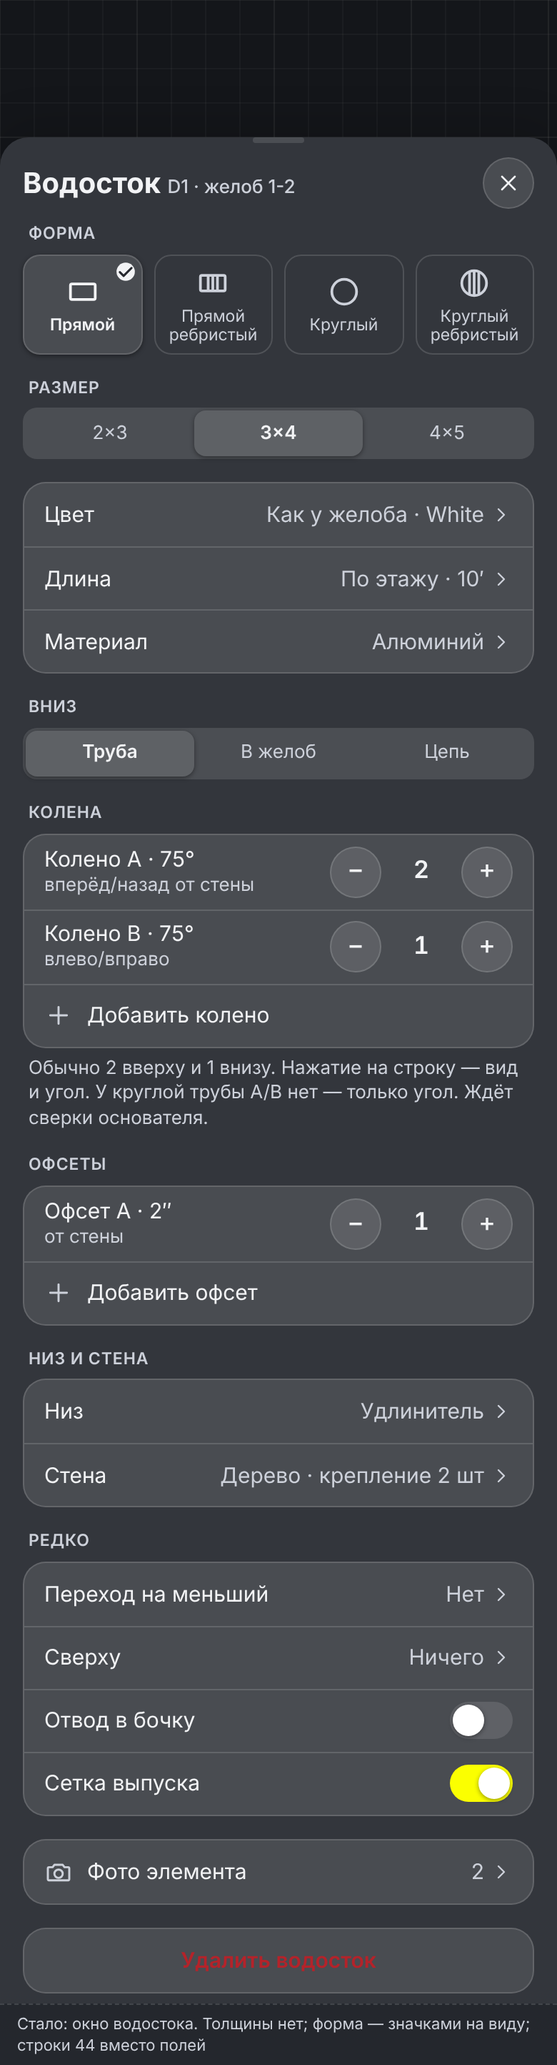
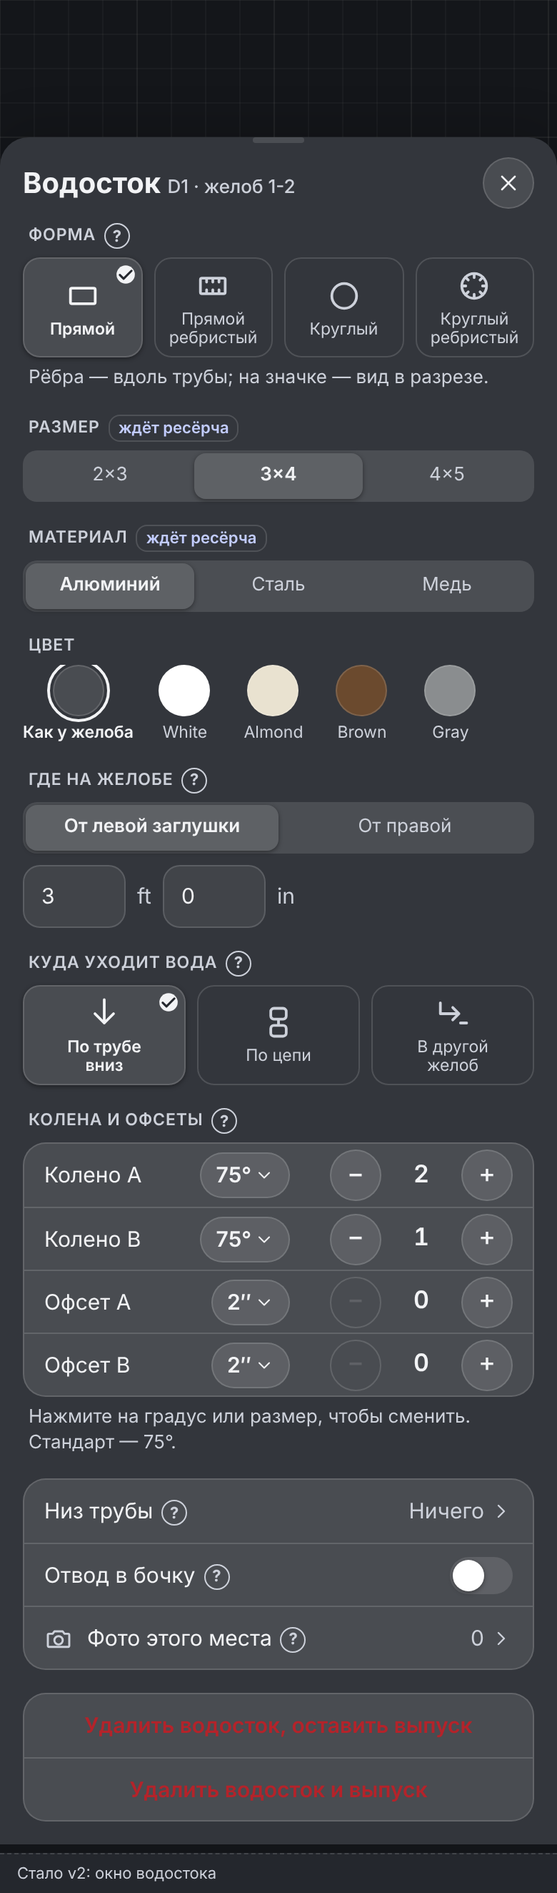
Прототип и спека окон Gutters v2 — по замечаниям основателя 16.11
Claude-Session: https://claude.ai/code/session_015CqH66DzhVPrbpJt18Umgo

diff --git a/docs/prototypes/gutters-windows/index.html b/docs/prototypes/gutters-windows/index.html
@@ -92,19 +92,30 @@ table.cut td{text-align:right;padding:6px 0;border-top:1px solid var(--bd)}
 .tabbar div{display:flex;flex-direction:column;align-items:center;gap:2px}
 .tabbar .on{color:var(--ink);font-weight:600}
 .cap{position:absolute;left:0;right:0;bottom:0;z-index:5;padding:6px 12px;font-size:11px;color:var(--mut);background:var(--bg);border-top:1px dashed var(--bd)}
+.qm{display:inline-flex;width:18px;height:18px;border-radius:9px;border:1.5px solid var(--mut);color:var(--mut);font-size:11px;font-weight:700;align-items:center;justify-content:center;margin-left:6px;vertical-align:middle;flex:none}
+.wait{display:inline-block;font-size:11px;font-weight:600;color:var(--infoT);border:1px solid var(--bd);border-radius:8px;padding:1px 6px;margin-left:6px;vertical-align:middle;text-transform:none;letter-spacing:0}
+.sw{display:flex;gap:10px;overflow:hidden}.sw div{display:flex;flex-direction:column;align-items:center;gap:4px;font-size:11.5px;color:var(--mut);min-width:52px}
+.sw i{width:36px;height:36px;border-radius:18px;border:1px solid var(--bd);display:block;position:relative}.sw .on i{outline:2px solid var(--ink);outline-offset:2px}.sw .on{color:var(--ink);font-weight:600}
+.dd{display:inline-flex;align-items:center;gap:2px;height:32px;padding:0 10px;border-radius:16px;border:1px solid var(--bd);background:var(--surf2);font-weight:600;font-size:15px}
+.menu{position:absolute;background:var(--solid);border:1px solid var(--bd);border-radius:14px;box-shadow:0 8px 24px rgba(0,0,0,.18);width:150px;z-index:4;overflow:hidden}
+.menu div{height:44px;display:flex;align-items:center;padding:0 14px;gap:8px;font-size:15px}.menu div+div{border-top:1px solid var(--bd)}
+.opt{display:flex;align-items:center;gap:10px;min-height:52px;padding:6px 14px}.opt+.opt{border-top:1px solid var(--bd)}.opt .stack{flex:1;display:flex;flex-direction:column}.opt small{font-size:13px;color:var(--mut)}
+.disabled{opacity:.45}
 </style></head>
 <body><div class="scr" id="scr"></div>
 <script>
 const q=new URLSearchParams(location.search),F=q.get('f')||'ds';document.body.dataset.t=q.get('t')||'light';
 const C=getComputedStyle(document.body),k=n=>C.getPropertyValue('--'+n).trim();
 const P={camera:"M4 8h3l1.5-2h7L17 8h3a1 1 0 0 1 1 1v9a1 1 0 0 1-1 1H4a1 1 0 0 1-1-1V9a1 1 0 0 1 1-1zM12 17a3.5 3.5 0 1 0 0-7 3.5 3.5 0 0 0 0 7",plus:"M12 5v14M5 12h14",search:"M11 18a7 7 0 1 0 0-14 7 7 0 0 0 0 14zM20 20l-4-4",cr:"M9 6l6 6-6 6",cl:"M15 6l-6 6 6 6",cd:"M6 9l6 6 6-6",check:"M5 12.5l4.5 4.5L19 7.5",more:"M6 12m-1.2 0a1.2 1.2 0 1 0 2.4 0a1.2 1.2 0 1 0-2.4 0M12 12m-1.2 0a1.2 1.2 0 1 0 2.4 0a1.2 1.2 0 1 0-2.4 0M18 12m-1.2 0a1.2 1.2 0 1 0 2.4 0a1.2 1.2 0 1 0-2.4 0",close:"M6 6l12 12M18 6L6 18",undo:"M9 14L4 9l5-5M4 9h11a5 5 0 0 1 0 10h-3",redo:"M15 14l5-5-5-5M20 9H9a5 5 0 0 0 0 10h3",trash:"M5 7h14M10 7V4h4v3M7 7l1 13h8l1-13",link:"M10 14a4 4 0 0 0 5.7 0l3-3a4 4 0 0 0-5.7-5.7l-1 1M14 10a4 4 0 0 0-5.7 0l-3 3A4 4 0 0 0 10 18.7l1-1",user:"M12 12a4 4 0 1 0 0-8 4 4 0 0 0 0 8zM4 21a8 8 0 0 1 16 0",users:"M16 20v-1.5a3.5 3.5 0 0 0-3.5-3.5h-5A3.5 3.5 0 0 0 4 18.5V20M10 11a3.5 3.5 0 1 0 0-7 3.5 3.5 0 0 0 0 7M20 20v-1.5a3.5 3.5 0 0 0-2.5-3.3M15.5 4.2a3.5 3.5 0 0 1 0 6.6",note:"M8 4h8v3H8zM6 5.5a1 1 0 0 0-1 1V20a1 1 0 0 0 1 1h12a1 1 0 0 0 1-1V6.5a1 1 0 0 0-1-1M9 12h6M9 16h4",home:"M3 11l9-8 9 8M5 10v10h5v-6h4v6h5V10",pencil:"M4 20l1-4L16 5a2 2 0 0 1 3 3L8 19z",
-dsRect:"M5 7h14a1 1 0 0 1 1 1v8a1 1 0 0 1-1 1H5a1 1 0 0 1-1-1V8a1 1 0 0 1 1-1z",dsRectRibbed:"M5 7h14a1 1 0 0 1 1 1v8a1 1 0 0 1-1 1H5a1 1 0 0 1-1-1V8a1 1 0 0 1 1-1zM9 7v10M12 7v10M15 7v10",dsRound:"M12 4a8 8 0 1 0 0 16 8 8 0 0 0 0-16z",dsRoundRibbed:"M12 4a8 8 0 1 0 0 16 8 8 0 0 0 0-16zM9 4.6v14.8M12 4v16M15 4.6v14.8",
+dsRect:"M5 7h14a1 1 0 0 1 1 1v8a1 1 0 0 1-1 1H5a1 1 0 0 1-1-1V8a1 1 0 0 1 1-1z",dsRectRibbed:"M5 7h14a1 1 0 0 1 1 1v8a1 1 0 0 1-1 1H5a1 1 0 0 1-1-1V8a1 1 0 0 1 1-1zM8 7v2.5M12 7v2.5M16 7v2.5M8 17v-2.5M12 17v-2.5M16 17v-2.5",dsRound:"M12 4a8 8 0 1 0 0 16 8 8 0 0 0 0-16z",dsRoundRibbed:"M12 4a8 8 0 1 0 0 16 8 8 0 0 0 0-16zM12 4v2.6M12 20v-2.6M4 12h2.6M20 12h-2.6M6.3 6.3l1.9 1.9M17.7 17.7l-1.9-1.9M17.7 6.3l-1.9 1.9M6.3 17.7l1.9-1.9",
 xsK:"M6 4v13a3 3 0 0 0 3 3h6a3 3 0 0 0 3-3V9.5c0-1.4-1-2.2-2.4-2.2H13",xsHalf:"M4 8a8 8 0 0 0 16 0M3 8h3M18 8h3",xsFascia:"M6 4v13.5a2.5 2.5 0 0 0 2.5 2.5H18V8.5h-3",xsBox:"M5 5v13a1 1 0 0 0 1 1h12a1 1 0 0 0 1-1V5",xsEuro:"M4 8c0 6 3 10 8 10s8-4 8-10",
-cornerOut:"M12 3l9 9-9 9-9-9z",cornerIn:"M12 3l9 9-9 9-9-9zM12 11l1 1-1 1-1-1z"};
+down:"M12 3v15M6 12l6 6 6-6",chain:"M9 3h6a2 2 0 0 1 2 2v3a2 2 0 0 1-2 2H9a2 2 0 0 1-2-2V5a2 2 0 0 1 2-2zM12 10v4M9 14h6a2 2 0 0 1 2 2v3a2 2 0 0 1-2 2H9a2 2 0 0 1-2-2v-3a2 2 0 0 1 2-2z",toGut:"M4 5v7h12M12 8l4 4-4 4M17 18h4",cornerOut:"M12 3l9 9-9 9-9-9z",cornerIn:"M12 3l9 9-9 9-9-9zM12 11l1 1-1 1-1-1z"};
 const ic=(n,s=22,col='currentColor',sw=1.75)=>`<svg class="ic" style="width:${s}px;height:${s}px" viewBox="0 0 24 24"><path d="${P[n]}" fill="none" stroke="${col}" stroke-width="${sw}" stroke-linecap="round" stroke-linejoin="round"/></svg>`;
 const chk=`<svg class="chk" viewBox="0 0 24 24"><circle cx="12" cy="12" r="11" fill="${k('ink')}"/><path d="${P.check}" fill="none" stroke="${k('bg')}" stroke-width="2.6" stroke-linecap="round" stroke-linejoin="round"/></svg>`;
 const tile=(icon,label,on,cls='')=>`<div class="tile ${cls} ${on?'on':''}">${ic(icon,26)}<span>${label}</span>${on?chk:''}</div>`;
 const row=(key,val,opts={})=>`<div class="row ${opts.sub?'sub':''}">${opts.icon?ic(opts.icon,20,k('mut')):''}${opts.sub?`<div class="stack"><span>${key}</span><small>${opts.sub}</small></div>`:`<span class="k">${key}</span>`}${opts.ctrl??`<span class="v">${val}${ic('cr',16)}</span>`}</div>`;
+const qm='<span class="qm">?</span>',wait='<span class="wait">ждёт ресёрча</span>';
+const dd=v=>`<span class="dd">${v}${ic('cd',14)}</span>`;
 const stp=n=>`<span class="stp"><b class="${n?'':'off'}">−</b><i>${n}</i><b>+</b></span>`;
 const seg=(items,on)=>`<div class="seg">${items.map((x,i)=>`<span class="${i===on?'on':''}">${x}</span>`).join('')}</div>`;
 let grid='';for(let x=0;x<390;x+=24)grid+=`<line x1="${x}" y1="0" x2="${x}" y2="844" stroke="${x%96?k('grid'):k('grid2')}"/>`;for(let y=0;y<844;y+=24)grid+=`<line x1="0" y1="${y}" x2="390" y2="${y}" stroke="${y%96?k('grid'):k('grid2')}"/>`;
@@ -117,48 +128,55 @@ const field=`<div class="fld">${ic('dsRect',18)}<b>Водостоков 1</b><sp
 const cap=t=>`<div class="cap">${t}</div>`;
 const sheet=(title,sub,body,foot='')=>`<div class="sheet static"><div class="grab"></div><div class="sh"><h2>${title}${sub?` <span class="sub">${sub}</span>`:''}</h2><span class="b36 round">${ic('close',18)}</span></div><div class="body">${body}</div>${foot}</div>`;
 let H='';
-if(F==='ds'){
+if(F==='ds'||F==='ds-copper'||F==='ds-deg'){
+ const cu=F==='ds-copper';
+ const swatch=(c,n,on)=>`<div class="${on?'on':''}"><i style="background:${c}"></i>${n}</div>`;
+ const elb=(n,v,q)=>row(n,'',{ctrl:`${dd(v)}<span style="width:8px"></span>${stp(q)}`});
  H=sheet('Водосток','D1 · желоб 1-2',`
- <div><div class="lbl">Форма</div><div class="tiles c4">${tile('dsRect','Прямой',true)}${tile('dsRectRibbed','Прямой<br>ребристый')}${tile('dsRound','Круглый')}${tile('dsRoundRibbed','Круглый<br>ребристый')}</div></div>
- <div><div class="lbl">Размер</div>${seg(['2×3','3×4','4×5'],1)}</div>
- <div class="grp">${row('Цвет','Как у желоба · White')}${row('Длина','По этажу · 10′')}${row('Материал','Алюминий')}</div>
- <div><div class="lbl">Вниз</div>${seg(['Труба','В желоб','Цепь'],0)}</div>
- <div><div class="lbl">Колена</div><div class="grp">${row('Колено A · 75°','',{sub:'вперёд/назад от стены',ctrl:stp(2)})}${row('Колено B · 75°','',{sub:'влево/вправо',ctrl:stp(1)})}${row('Добавить колено','',{icon:'plus',ctrl:''})}</div><div class="note">Обычно 2 вверху и 1 внизу. Нажатие на строку — вид и угол. У круглой трубы A/B нет — только угол. Ждёт сверки основателя.</div></div>
- <div><div class="lbl">Офсеты</div><div class="grp">${row('Офсет A · 2″','',{sub:'от стены',ctrl:stp(1)})}${row('Добавить офсет','',{icon:'plus',ctrl:''})}</div></div>
- <div><div class="lbl">Низ и стена</div><div class="grp">${row('Низ','Удлинитель')}${row('Стена','Дерево · крепление 2 шт')}</div></div>
- <div><div class="lbl">Редко</div><div class="grp">${row('Переход на меньший','Нет')}${row('Сверху','Ничего')}${row('Отвод в бочку','',{ctrl:'<span class="tog"></span>'})}${row('Сетка выпуска','',{ctrl:'<span class="tog on"></span>'})}</div></div>
- <div class="grp">${row('Фото элемента','2',{icon:'camera'})}</div>
- <div class="grp"><div class="row del">Удалить водосток</div></div>`)+cap('Стало: окно водостока. Толщины нет; форма — значками на виду; строки 44 вместо полей');
+ <div><div class="lbl">Форма${qm}</div><div class="tiles c4">${tile('dsRect','Прямой',!cu)}${tile('dsRectRibbed','Прямой<br>ребристый')}${tile('dsRound','Круглый',cu)}${tile('dsRoundRibbed','Круглый<br>ребристый')}</div><div class="note">Рёбра — вдоль трубы; на значке — вид в разрезе.</div></div>
+ <div><div class="lbl">Размер${wait}</div>${seg(cu?['3″','4″']:['2×3','3×4','4×5'],1)}</div>
+ <div><div class="lbl">Материал${wait}</div>${seg(['Алюминий','Сталь','Медь'],cu?2:0)}</div>
+ <div class="${cu?'disabled':''}"><div class="lbl">Цвет</div>${cu?`<div class="note" style="margin:0 4px 8px">Медь не красят — цвет не выбирается.</div>`:''}<div class="sw">${swatch(k('surf2'),'Как у желоба',!cu)}${swatch('#FFFFFF','White')}${swatch('#E9E2D0','Almond')}${swatch('#6B4A2E','Brown')}${swatch('#8A8D8F','Gray')}</div></div>
+ <div><div class="lbl">Где на желобе${qm}</div>${seg(['От левой заглушки','От правой'],0)}<div style="display:flex;gap:8px;align-items:center;margin-top:8px"><div class="inp" style="width:72px">3</div><span style="color:var(--mut)">ft</span><div class="inp" style="width:72px">0</div><span style="color:var(--mut)">in</span></div></div>
+ <div><div class="lbl">Куда уходит вода${qm}</div><div class="tiles c3" style="grid-template-columns:repeat(3,1fr)">${tile('down','По трубе<br>вниз',true)}${tile('chain','По цепи')}${tile('toGut','В другой<br>желоб')}</div></div>
+ <div><div class="lbl">Колена и офсеты${qm}</div><div class="grp">${elb('Колено A','75°',2)}${elb('Колено B','75°',1)}${elb('Офсет A','2″',0)}${elb('Офсет B','2″',0)}</div><div class="note">Нажмите на градус или размер, чтобы сменить. Стандарт — 75°.</div></div>
+ <div class="grp">${row('Низ трубы'+qm,'Ничего')}${row('Отвод в бочку'+qm,'',{ctrl:'<span class="tog"></span>'})}${row('Фото этого места'+qm,'0',{icon:'camera'})}</div>
+ <div class="grp"><div class="row del">Удалить водосток, оставить выпуск</div><div class="row del">Удалить водосток и выпуск</div></div>`)+(F==='ds-deg'?`<div class="menu" style="left:140px;top:842px"><div>30°</div><div>45°</div><div>60°</div><div style="font-weight:600">75° ${ic('check',16)}</div><div>90°</div></div>`:'')+cap(cu?'Стало v2: медь — цвет выключен сам':F==='ds-deg'?'Стало v2: градус колена — выбор по нажатию на «75°»':'Стало v2: окно водостока');
 }
-if(F==='elbow'){
- H=`<div class="sheet static"><div class="grab"></div><div class="sh"><span class="b36 round">${ic('cl',18)}</span><h2>Колено</h2><span class="b36 round">${ic('close',18)}</span></div><div class="body">
- <div><div class="lbl">Вид</div><div class="tiles c2">${tile('dsRect','A — вперёд/назад<br>от стены',true)}${tile('dsRect','B — влево/вправо')}</div></div>
- <div><div class="lbl">Угол</div>${seg(['30°','45°','60°','75°','90°'],3)}<div class="note">Стандарт — 75°.</div></div>
- <div class="grp">${row('Сколько','',{ctrl:stp(2)})}</div>
- <div><div class="lbl">Офсет (готовый)</div>${seg(['Нет','Double A','Double B','Single'],0)}<div class="grp" style="margin-top:8px">${row('Смещение','2″')}</div><div class="note">Смещение 1½–6″. У Amerimax офсет собирают из двух колен с отрезком. Ждёт сверки основателя.</div></div>
- </div><div class="foot"><span class="btnw acc">Готово</span></div></div>`+cap('Стало: страница «Колено» внутри окна водостока: вид A/B, угол, сколько; офсет');
+if(F==='ds-bottom'){
+ const o=(t,d,on)=>`<div class="opt"><div class="stack"><span>${t}</span><small>${d}</small></div>${on?ic('check',20):''}</div>`;
+ H=`<div class="sheet static"><div class="grab"></div><div class="sh"><span class="b36 round">${ic('cl',18)}</span><h2>Низ трубы</h2><span class="b36 round">${ic('close',18)}</span></div><div class="body"><div class="note" style="margin:0">Что ставим у земли, куда выходит вода из трубы.</div><div class="grp">${o('Ничего','труба заканчивается коленом',true)}${o('Удлинитель','кусок трубы, отводит воду от стены')}${o('Splash block','бетонный или пластиковый лоток под коленом')}${o('Гибкий рукав','гофрированный, складывается')}${o('В землю','переходник в дренажную трубу')}${o('На нижнюю крышу','вода стекает на крышу ниже')}</div></div></div>`+cap('Стало v2: «Низ трубы» — список с пояснениями, по умолчанию «Ничего»');
 }
 if(F==='run'){
  H=sheet('Желоб','1-1 · 21′ 8″',`
- <div><div class="lbl">Профиль</div><div class="tiles c5">${tile('xsK','K',true)}${tile('xsHalf','Полукр.')}${tile('xsFascia','Fascia')}${tile('xsBox','Box')}${tile('xsEuro','Euro')}</div></div>
+ <div><div class="lbl">Профиль${wait}</div><div class="tiles c5">${tile('xsK','K',true)}${tile('xsHalf','Полукр.')}${tile('xsFascia','Fascia')}${tile('xsBox','Box')}${tile('xsEuro','Euro')}</div><div class="note">Значки нарисуем по сечениям после ресёрча.</div></div>
  <div><div class="lbl">Размер</div>${seg(['5″','6″','7″'],0)}</div>
  <div><div class="lbl">Этаж</div>${seg(['1','2','3','4'],0)}</div>
- <div><div class="lbl">Длина</div><div style="display:flex;gap:8px;align-items:center"><div class="inp" style="width:84px">21</div><span style="color:var(--mut)">ft</span><div class="inp" style="width:84px">8</div><span style="color:var(--mut)">in</span><span class="sp"></span><span class="b36">Рулетка</span></div><div class="note">Нарисовано 21′ 4″</div></div>
- <div class="grp">${row('Цвет','White')}${row('Материал','Алюминий · .027')}</div>
- <div><div class="lbl">Крепление</div><div class="grp">${row('Монтаж','На фасад')}${row('Кронштейны','Hidden hanger')}</div></div>
- <div class="grp">${row('Фото элемента','0',{icon:'camera'})}</div>
- <div class="grp"><div class="row del">Удалить желоб</div></div>`)+cap('Стало: окно желоба. Профиль значками; размер и этаж — сегменты; углы — в окне угла');
+ <div><div class="lbl">Длина${qm}</div><div style="display:flex;gap:8px;align-items:center"><div class="inp" style="width:64px">21</div><span style="color:var(--mut)">ft</span><div class="inp" style="width:56px">8</div><span style="color:var(--mut)">in</span>${dd('½')}<span class="sp"></span><span class="b36">Шкала</span></div><div class="note">Нарисовано 21′ 4″. «Шкала» — прокрутите длину пальцем.</div></div>
+ <div class="grp">${row('Цвет','White')}${row('Материал'+wait,'Алюминий · .027')}</div>
+ <div><div class="lbl">Крепление</div><div class="grp">${row('К чему крепится'+qm,'Доска (fascia)')}${row('Кронштейны','Hidden hanger')}</div></div>
+ <div class="grp">${row('Фото этого места'+qm,'0',{icon:'camera'})}</div>
+ <div class="grp"><div class="row del">Удалить желоб</div></div>`)+cap('Стало v2: окно желоба. Дробь у длины; «Шкала» вместо «Рулетка»; «К чему крепится» с «?»');
 }
-if(F==='corner'){
+if(F==='corner'||F==='corner-in'){
+ const inner=F==='corner-in';
  const sk=`<svg viewBox="0 0 300 200" style="width:100%;height:170px"><rect x="40" y="40" width="190" height="22" fill="${k('surf2')}"/><rect x="208" y="40" width="22" height="150" fill="${k('surf2')}"/><path d="M40 62H208V190" fill="none" stroke="${k('ink')}" stroke-width="3"/><path d="M40 40H230V190" fill="none" stroke="${k('ink')}" stroke-width="2" stroke-dasharray="5 4"/><path d="M208 62L230 40" stroke="${k('ink')}" stroke-width="2.5"/><path d="M190 62A18 18 0 0 0 208 80" fill="none" stroke="${k('mut')}" stroke-width="1.5" stroke-dasharray="6 3 1 3"/><text x="180" y="96" font-size="12" font-weight="600" fill="${k('ink')}">90°</text><text x="120" y="30" font-size="12" fill="${k('ink')}" text-anchor="middle">лицевая 24′ 4″</text><text x="120" y="80" font-size="12" fill="${k('mut')}" text-anchor="middle">стена 23′ 11″</text></svg>`;
  const cut=(n,w,f)=>`<div class="grp" style="padding:10px 14px"><div style="font-weight:600;font-size:13px">Желоб ${n}</div><table class="cut"><tr><th>По стене</th><th>По лицу</th><th>Рез</th></tr><tr><td style="text-align:left">${w}</td><td><b>${f}</b></td><td>45°</td></tr></table></div>`;
+ const segI=(on)=>`<div class="seg">${[['cornerOut','Наружный'],['cornerIn','Внутренний']].map(([i,t],j)=>`<span class="${j===on?'on':''}" style="gap:6px">${ic(i,16)}${t}</span>`).join('')}</div>`;
  H=sheet('Угол','1-1 / 1-2',`
- <div><div class="tiles c2">${tile('cornerOut','наружный',true,'h36')}${tile('cornerIn','внутренний',false,'h36')}</div><div class="note">Сменится сторона всей линии</div></div>
+ <div>${segI(inner?1:0)}<div class="note">Сменится сторона всей линии</div></div>
  ${sk}
- <div><div class="lbl">Как делаем угол</div>${seg(['Готовый','Резать','Полоса'],1)}<div class="note">Было в окне желоба («Углы этого желоба») — теперь здесь.</div></div>
- <div><div class="lbl">Раскрой · угол 90°</div><div style="display:flex;flex-direction:column;gap:8px">${cut('1-1','23′ 11″','24′ 4″')}${cut('1-2','25′ 11″','26′ 4″')}</div><div class="note" style="color:var(--warnT)">⚠ Замер примерный: перед резкой перемерьте рулеткой</div></div>
- <div class="grp">${row('Брызговик на угол','',{ctrl:'<span class="tog on"></span>'})}${row('Угол по замеру','A, B, C',{})}</div>
- <div class="grp"><div class="row del">Разъединить угол</div></div>`)+cap('Стало: окно угла — всё из DS §19б остаётся; добавлен способ угла; «Угол по замеру» — строкой ›');
+ <div><div class="lbl">Как делаем угол${qm}</div>${seg(['Готовый','Резать','Полоса'],1)}</div>
+ <div><div class="lbl">Раскрой · угол 90°</div><div style="display:flex;flex-direction:column;gap:8px">${cut('1-1','23′ 11″','24′ 4″')}${cut('1-2','25′ 11″','26′ 4″')}</div></div>
+ <div class="grp">${inner?row('Брызговик на угол'+qm,'',{ctrl:'<span class="tog on"></span>'}):''}${row('Угол не 90°? Измерить'+qm,'',{icon:'pencil'})}</div>
+ <div class="grp"><div class="row del">Разъединить угол</div></div>`)+cap(inner?'Стало v2: внутренний угол — есть брызговик':'Стало v2: наружный угол — брызговика нет; вид — сегментом DS; «замер примерный» убран');
+}
+if(F==='corner-tri'){
+ const fig=`<svg viewBox="0 0 320 230" style="width:100%;height:220px"><path d="M40 40H280M40 40V210" stroke="${k('ink')}" stroke-width="4" stroke-linecap="round"/><text x="30" y="30" font-size="12" fill="${k('mut')}" text-anchor="end">угол</text><circle cx="40" cy="40" r="5" fill="${k('ink')}"/><circle cx="200" cy="40" r="6" fill="${k('bg')}" stroke="${k('ink')}" stroke-width="2.5"/><circle cx="40" cy="170" r="6" fill="${k('bg')}" stroke="${k('ink')}" stroke-width="2.5"/><path d="M200 40L40 170" stroke="${k('ink')}" stroke-width="2" stroke-dasharray="6 4"/><text x="120" y="62" font-size="15" font-weight="700" fill="${k('ink')}">A</text><text x="52" y="110" font-size="15" font-weight="700" fill="${k('ink')}">B</text><text x="130" y="122" font-size="15" font-weight="700" fill="${k('ink')}">C</text><text x="140" y="26" font-size="12" fill="${k('mut')}" text-anchor="middle">по одной стене</text><text x="52" y="200" font-size="12" fill="${k('mut')}">по другой</text><text x="150" y="150" font-size="12" fill="${k('mut')}">между метками</text></svg>`;
+ const f3=(n,v='5',w='0')=>`<div style="display:flex;gap:8px;align-items:center"><b style="width:18px">${n}</b><div class="inp" style="width:64px">${v}</div><span style="color:var(--mut)">ft</span><div class="inp" style="width:56px">${w}</div><span style="color:var(--mut)">in</span></div>`;
+ H=`<div class="sheet static"><div class="grab"></div><div class="sh"><span class="b36 round">${ic('cl',18)}</span><h2>Измерить угол</h2><span class="b36 round">${ic('close',18)}</span></div><div class="body">
+ <div class="note" style="margin:0">Отмерьте от угла по одной стене (A) и по другой (B), поставьте метки и измерьте расстояние между ними (C). Угол посчитаем сами.</div>${fig}
+ <div style="display:flex;flex-direction:column;gap:8px">${f3('A')}${f3('B')}${f3('C','7','1')}</div></div><div class="foot"><span class="btnw acc">Посчитать угол</span></div></div>`+cap('Стало v2: «Угол по замеру» — со схемой A, B, C');
 }
 if(F==='canvas'){
  const tb=`<div class="tb2"><span style="color:var(--mut)">⋮⋮</span><div class="c on">${ic('xsK')}</div><div class="c">${ic('dsRect')}</div><div class="c" style="width:auto"><span style="font-size:13px;font-weight:700;border:2px solid ${k('s1')};border-radius:14px;padding:4px 8px">Эт 1</span></div><div class="c">${ic('undo')}</div><div class="c">${ic('redo')}</div><div class="c">${ic('trash')}</div></div><div class="fld" style="bottom:44px"><b>Желоб · 25′ 11″</b></div>`;
@@ -178,13 +196,14 @@ if(F==='tab'){
  const card=(icon,t,date,chip,line)=>`<div class="card"><div class="lc"><span class="av">${ic(icon,20)}</span><div style="flex:1;display:flex;flex-direction:column;gap:6px"><div class="t"><span>${t}</span><span class="m">${date}</span></div>${chip}<div class="m">${line}</div></div></div></div>`;
  const ch=(col,i,txt)=>`<span><span class="chip" style="color:${col}">${i} ${txt}</span></span>`;
  H=`<div class="scr" style="background:linear-gradient(160deg,rgba(124,224,138,.25),var(--bg) 35%,var(--bg) 70%,rgba(255,160,60,.18))"><div class="top"><div class="crumb">GoRix v1.0.0 · 1736 · вс, 15 нояб. 5:14 PM</div>
- <div class="ttl"><h1>Gutters</h1><span class="q">?</span><span class="sp"></span><span class="b36">${ic('plus',18)}Замер</span></div>
- <div class="inp">${ic('search',18,k('mut'))}<span class="ph2">Поиск: имя, адрес, название</span></div>
+ <div class="ttl"><h1>Gutters</h1><span class="q">?</span></div>
+ <div style="display:flex;gap:8px"><div class="inp" style="flex:1">${ic('search',18,k('mut'))}<span class="ph2">Поиск</span></div><span class="b36 acc" style="height:44px;border-radius:22px">${ic('plus',18)}Новый замер</span></div>
+ <div style="display:flex;gap:8px;margin-top:10px;overflow:hidden">${['Все · 4','Черновики · 2','Без сметы · 1','Смета · 1','Подписана'].map((x,i)=>`<span class="chip" style="height:32px;padding:0 12px;font-size:13px;white-space:nowrap;flex:none;${i===0?'background:var(--surf2);box-shadow:var(--sh);color:var(--ink)':'color:var(--mut)'}">${x}</span>`).join('')}</div>
  <div class="secH"><b>Черновики</b><span>2</span></div>
  <div style="display:flex;flex-direction:column;gap:8px">${card('pencil','Дом на Maple, задний двор','вчера',ch(k('mut'),'▢','Черновик'),'Желобов: 3 · 62 ft · водостоков: 2')}${card('pencil','Без названия','15 нояб.',ch(k('mut'),'▢','Черновик'),'Желобов: 2 · 50 ft · водостоков: 3')}</div>
  <div class="secH"><b>Привязанные к клиентам и лидам</b><span>2</span></div>
  <div style="display:flex;flex-direction:column;gap:8px">${card('user','Лид · Maria Lopez','14 нояб.',ch(k('warnT'),'⚠','Без сметы'),'412 Oak St · желобов: 4 · 96 ft')}${card('users','Клиент · John Carter','12 нояб.',ch(k('infoT'),'◷','Смета отправлена'),'88 Pine Ave · желобов: 2 · 40 ft')}</div></div>
- <div class="tabbar" style="left:16px;right:16px;bottom:44px;border-radius:24px;height:60px;border:1px solid var(--bd)"><div>${ic('home')}Главная</div><div>${ic('note')}План</div><div>${ic('users')}Чаты</div><div>${ic('users')}Клиенты</div><div class="on">${ic('note')}Gutters</div><div>${ic('more')}Ещё</div></div>${cap('Стало: «?» у заголовка; черновики и привязанные — двумя секциями; у каждой карточки значок и слово «Лид / Клиент»')}</div>`;
+ <div class="tabbar" style="left:16px;right:16px;bottom:44px;border-radius:24px;height:60px;border:1px solid var(--bd)"><div>${ic('home')}Главная</div><div>${ic('note')}План</div><div>${ic('users')}Чаты</div><div>${ic('users')}Клиенты</div><div class="on">${ic('note')}Gutters</div><div>${ic('more')}Ещё</div></div>${cap('Стало v2: сверху поиск, жёлтая «＋ Новый замер», фильтры; ниже — черновики и привязанные')}</div>`;
 }
 document.getElementById('scr').outerHTML=F==='canvas'||F==='tab'?H:`<div class="scr">${canvas()}<div class="scrim"></div>${H}</div>`;
 const sh=document.querySelector('.sheet.static');if(sh&&sh.offsetHeight+130<844){sh.style.position='absolute';sh.style.left='0';sh.style.right='0';sh.style.bottom='34px';sh.style.margin='0';}

diff --git a/docs/specs/33-gutters-windows.md b/docs/specs/33-gutters-windows.md
@@ -41,25 +41,44 @@
 - Выбранная плитка — «Заливка» + `check` (DS «Выделение выбранного», #1306); значки — те же, что у инструментов и знаков на холсте (`dsRect`, `dsRectRibbed`, `dsRound`, `dsRoundRibbed`; `xsK`, `xsHalf`, `xsFascia`, `xsBox`, `xsEuro`; `cornerOut`, `cornerIn`).
 - Свёрнутого блока «Ещё» нет. Редкое (переход, сверху, отвод в бочку, сетка выпуска) — группой «Редко», видно сразу. У каждой группы — подпись.
 - Счётчики — общий `Stepper` (А6: «−» 36, значение 56, «+» 36; «−» тусклый на нуле).
+- **«?» у каждого неочевидного поля** (основатель: «знаки вопроса я просил везде расставлять… с пояснениями»): по нажатию — подсказка DS Б7 одной-двумя фразами; тексты — в i18n блоком `mod.gutters.help.*`.
 - 820/1280: то же содержимое в боковой панели (как сейчас `attr-panel`).
 
-### 3.2. Водосток (`after-ds-390-*`) — #1750
-Форма (4 плитки) · Размер (сегмент по форме: прямоуг. 2×3 / 3×4 / 4×5, круглый 3″ / 4″) · группа: Цвет, Длина, Материал · Вниз (сегмент Труба / В желоб / Цепь — спека 33-ds-auto §9.3) · **Колена**, **Офсеты** (3.8) · группа: Низ, Стена (с креплением) · группа редкого. **Толщины нет** (основатель: «толщину даунспота убери»): у водостока толщина берётся из материала по умолчанию компании; в смете/заказе — как сейчас (поле `gauge` в данных остаётся, правило 16; окно его не показывает).
+### 3.2. Водосток (`after-ds-390-*`, `after-ds-copper`, `after-ds-deg`, `after-ds-bottom`) — #1750
+**Версия 2 — по замечаниям основателя 16.11 ~02:40** (передал руководитель №13). Сверху вниз:
+1. **Форма** (4 плитки, «?»). Значки ребристых — **рёбра внутри** (вид трубы в разрезе), не снаружи: новые `dsRectRibbed`, `dsRoundRibbed` (правка значков — в PR дизайн-системы, они же на холсте и в панели).
+2. **Размер** — сегмент по форме (прямоуг. 2×3 / 3×4 / 4×5; круглый 3″ / 4″). **Ждёт ресёрча** (бывают ли больше 4×5, квадратные, под заказ).
+3. **Материал** — сегмент Алюминий / Сталь / Медь. **Ждёт ресёрча** (полный список). **Медь → цвет выключается сам** (медь не красят; поле цвета тускнеет с пояснением, `finish: mill`), как сейчас `MILL_ONLY` в коде.
+4. **Цвет — палитра:** кружок-образец + название под ним («Как у желоба» первым, затем цвета компании); выбранный — рамка `ink` вокруг кружка + жирное название (DS: правило для выбора цвета — дописать, ближайшее — А15).
+5. **Где на желобе** (новое, «?»): сегмент «От левой заглушки / От правой» + число ft / in. Данные: место уже хранится (`atIn` от начала желоба); сторона и отступ — пересчёт в интерфейсе, не новое поле.
+6. **Куда уходит вода** («?», вместо «Вниз: Труба / В желоб / Цепь»): три плитки со значками и словами — «По трубе вниз», «По цепи», «В другой желоб». Цепь — на виду (основатель: «в списке нет цепи»). Пояснение по «?»: «Труба — обычный водосток; цепь — вода стекает по цепи вместо трубы; в другой желоб — выпуск без трубы, вода переливается в желоб ниже».
+7. **Колена и офсеты** («?»): **всегда четыре строки** — Колено A, Колено B, Офсет A, Офсет B; у каждой справа количество (`Stepper`). У колен — градус кнопкой «75° ⌄» (по нажатию меню 30 / 45 / 60 / **75** / 90; 75 — стандарт). У офсетов — смещение «2″ ⌄» (1, 2, 3, 4, 5, 6″). **Без** подписей «вперёд/назад от стены», без «Добавить колено/офсет» и без отдельного экрана колена (основатель: «других не бывает»). У круглой трубы A/B нет (ресёрч) — строки «Колено» и «Офсет» с градусом/смещением (**ждёт сверки основателя**).
+8. **Низ трубы** («?»): строка «Низ трубы · Ничего ›» → страница со списком и пояснением к каждому: Ничего (по умолчанию), Удлинитель, Splash block, Гибкий рукав, В землю, На нижнюю крышу.
+9. **Отвод в бочку** («?») — переключатель. **Фото этого места** («?»: «снимок места водостока — приложится к замеру, видно бригаде»).
+10. **Удаление — два действия** последними строками: «Удалить водосток, оставить выпуск» (элемент → `pipe:false`, спека 33-ds-auto §9.3) и «Удалить водосток и выпуск»; оба с тостом «Отменить».
+**Убрано из окна:** толщина (берётся из позиции каталога / настроек, по умолчанию .019, у 4×5 — .024), **Стена** (основатель: «в смете просто количество креплений»; **ждёт ресёрча**), «Переход на меньший», «Сверху», «Сетка выпуска» (основатель: непонятно). Данные этих полей остаются (правило 16), движок считает как раньше; вернуть в окно — только по ресёрчу и с «?».
 
 ### 3.3. Желоб (`after-run-390-*`) — #1750
-Профиль (5 плиток, короткие подписи: K, Полукр., Fascia, Box, Euro) · Размер (сегмент по профилю) · Этаж (сегмент 1–4) · **Длина на виду** — поля фут/дюйм и кнопка «Рулетка» (рулетка `Tape.tsx` как сейчас; самое частое действие замера — не прятать в строку) · группа: Цвет, Материал · толщина (у желоба остаётся — основатель убрал только у водостока) · группа «Крепление»: Монтаж, Кронштейны. **Углы из окна желоба убраны** — они в окне угла (одно место).
+Профиль (5 плиток; **значки — ждут ресёрча**: нарисовать по настоящим сечениям) · Размер (сегмент) · Этаж (сегмент 1–4) · **Длина на виду**: ft, in и **дробь** («½ ⌄»: 0, ⅛, ¼, ⅜, ½, ⅝, ¾, ⅞ — как `FracPicker`), рядом кнопка **«Шкала»** вместо непонятного «Рулетка» (прокрутить длину пальцем; «?» объясняет) · группа: Цвет, Материал (**материал и толщины — ждут ресёрча**) · группа «Крепление»: **«К чему крепится»** («?»; вместо «Монтаж на фасад» / «Край крыши»: доска fascia, стропила, обрешётка, карниз ogee, под углом, черепица), Кронштейны · Фото этого места («?») · «Удалить желоб». **Углы из окна желоба убраны** — они в окне угла.
 
-### 3.4. Угол (`after-corner-390-*`) — #1750
-**Всё из DS §19б остаётся** (вид угла — два выбора 36 со значком и словом, «Сменится сторона всей линии», чертёж угла, «Раскрой» карточками по кускам, «замер примерный»). Добавлено: **Как делаем** (сегмент Готовый / Резать / Полоса — перенесено из окна желоба), Брызговик строкой, «Угол по замеру» (A, B, C → угол) — строкой «›» со страницей вместо длинного блока внизу, «Разъединить угол» — последней строкой.
+### 3.4. Угол (`after-corner-390-*`, `after-corner-in-390-*`, `after-corner-tri-390-*`) — #1750
+- **Вид угла — сегментом DS** (А1, `Segmented` со значком и словом «Наружный / Внутренний»), а не своими плитками (основатель: «выглядят кастомными»). «Сменится сторона всей линии» — под ним.
+- Чертёж угла и «Раскрой» по кускам — как сейчас (DS §19б).
+- **Убрано:** «Замер примерный: перед резкой перемерьте рулеткой» и всё про «рулеткой / по спутнику» (основатель: «вообще ничего не пишем»). В коде — отдельная задача (её заводит руководитель).
+- **Как делаем угол** («?») — сегмент Готовый / Резать / Полоса (перенесено из окна желоба).
+- **Брызговик — только у внутреннего угла** (у наружного строки нет).
+- **«Угол не 90°? Измерить»** («?») → страница **«Измерить угол» со схемой**: от угла по одной стене метка (A), по другой (B), расстояние между метками (C); три поля ft/in, «Посчитать угол». Вместо непонятного «Угол по замеру: A, B, C».
+- «Разъединить угол» — последней строкой.
 
 ### 3.5. Шапка холста (`after-canvas-390-*`, было — `before/before-canvas.png`) — #1752
 Панель инструментов и плашка-сводка — **как сейчас** (DS §19а: только значки, выбранный — круг `ink`). Все элементы шапки — **одной высоты 36 и одной формы** (`IconButton`/кнопка-пилюля на `surf2` с `hairline`): «‹», кнопка-имя («Привязать» / имя лида / адрес), фотоаппарат (`IconButton` со значком `camera`, число фото — меткой на кнопке, как счётчик), «⋯», «Готово». «Готово» — та же высота 36, единственная жёлтая (`acc`, правило 2), справа. Сейчас: фотоаппарат — голый значок без подложки, «Готово» — `size="sm"` ниже соседей.
 
-### 3.6. «Привязать» (`after-link-390-*`, `after-draft-390-*`) — #1751
+### 3.6. «Привязать» (`after-link-390-*`, `after-draft-390-*`) — #1751 — **основатель: ок (16.11)**
 Сегмент из трёх: **Лиды · Клиенты · Черновик**. Лиды и клиенты — поиск, строки выбора с `check` у выбранной; кнопка «Привязать к <имя>» выключена, пока строка не выбрана; «Новый лид» — отдельной группой. **Черновик** — поле «Название черновика» (1–120 символов; пусто → «Без названия») и главная кнопка «Сохранить черновик». Название пишется в `gutter_measurements.label` — колонка, проверка длины и чтение/запись уже есть (`data.ts`), **миграции нет**. Название видно в шапке холста вместо «Привязать» и в списке «Черновики». Привязанный замер название сохраняет (видно мелко под именем клиента/лида). Офлайн — через очередь, как остальные поля замера.
 
 ### 3.7. Вкладка Gutters (`after-tab-390-*`) — #1753
-Заголовок **«Gutters»** (решение основателя 16.11; было «Замеры» + подзаголовок «Водостоки (Gutters)»; подзаголовок убирается, вкладка внизу — тоже «Gutters») и **«?» сразу справа от заголовка** (основатель), «＋ Замер» справа в шапке. Поиск. Две секции: **«Черновики»** (замеры без лида и клиента: название или «Без названия», что нарисовано, дата) и **«Привязанные к клиентам и лидам»** (у каждой карточки значок и слово «Лид · имя» / «Клиент · имя», адрес, что нарисовано, статус значком+словом: «⚠ Без сметы», «◷ Смета отправлена», «✓ Подписана»). Строка версии, плашка «Демо» и нижняя панель — как сейчас; пустое состояние — как сейчас («Замеров пока нет» + «＋ Новый замер»). Фильтр-чипы убираются (секции заменяют «Черновики»/«Остальные»; статус виден на карточке). Карточки — `ListCard` (правило 12).
+Заголовок **«Gutters»** (решение основателя 16.11; было «Замеры» + подзаголовок «Водостоки (Gutters)»; подзаголовок убирается, вкладка внизу — тоже «Gutters») и **«?» сразу справа от заголовка**. **Сверху (v2, основатель):** поиск и рядом **жёлтая кнопка «＋ Новый замер»**, под ними **фильтры-чипы** (Все · Черновики · Без сметы · Смета · Подписана, с числами). Ниже две секции: **«Черновики»** (название или «Без названия», что нарисовано, дата) и **«Привязанные к клиентам и лидам»** (значок и слово «Лид · имя» / «Клиент · имя», адрес, что нарисовано, статус значком+словом). Фильтр сужает обе секции. Строка версии, плашка «Демо», нижняя панель и пустое состояние — как сейчас. Карточки — `ListCard` (правило 12).
+**Расхождение с DS (жёлтая кнопка):** §12.2 — «＋» списка вторичная, жёлтое — главное действие экрана в закреплённой панели. Основатель хочет жёлтую «Новый замер» сверху. По DS §2.3 — правило дописывается (исключение для главного действия списка модуля или общее) в PR дизайн-системы.
 **Расхождение с DS:** §12.2 «Подсказка „?“ — справа в шапке, первой». Основатель хочет «?» у заголовка. По DS §2.3 сначала правится DS: «„?“ раздела — сразу после заголовка (как у `SectionTitle`)»; это меняет все списки, поэтому — **вопрос основателю через руководителя:** только Gutters или везде? Рекомендую везде (одно правило), отдельным PR дизайн-системы.
 
 ### 3.8. Колена и офсеты (ресёрч аудита 16.11 — **ждёт сверки основателя**) — #1749
@@ -68,7 +87,7 @@
 - **Офсеты:** готовые — Englert Zig Zag 2×3 (смещение 1½″ и 3″), GutterAll Double A / Double B / Single (смещение 2–6″; A — от стены, B — вбок). У Amerimax офсет собирают из двух колен с отрезком.
 - **Сколько колен:** обычно 2 вверху и 1 внизу — практика, не стандарт (подсказка под списком, не правило расчёта).
 - **Толщина трубы:** своя, не как у желоба (обычно .019, у 4×5 — .024). В окне поля нет; значение — из позиции каталога или настроек, по умолчанию .019.
-- **Как выглядит выбор** (`after-ds` — группы «Колена» и «Офсеты»; `after-elbow` — страница «Колено»): строка = вид и угол («Колено A · 75°», подпись «вперёд/назад от стены») + счётчик; «＋ Добавить колено». Нажатие на строку — страница шторки «Колено»: вид A/B (плитки; у круглой трубы — нет), угол (сегмент 30/45/60/75/90, по умолчанию 75), сколько; офсет — Нет / Double A / Double B / Single и смещение.
+- **Как выглядит выбор (v2):** всегда четыре строки (3.2 п.7); градус и смещение — кнопкой со стрелкой, меню по нажатию (`after-ds-deg`). Отдельной страницы «Колено» и «Добавить» нет (основатель 16.11).
 - **Модель данных** (градус у колена, вид офсета A/B со смещением) — **отдельная задача К1** после «да» основателя; сейчас в данных `elbows: {style, qty}[]` (стиль rect A/B, round — по градусу) и `offsets: {lengthIn, qty}[]` — по правилу 16 новое добавляется рядом, старое читается.
 - Источники: ресёрч аудита (передал руководитель №13 16.11); [gutterworks.com — A vs B](https://www.gutterworks.com/tips-and-resources/a-vs-b-styles), [gutterall.com — колена](https://gutterall.com/collections/gutter-elbows-downspout-elbows).
 
@@ -96,7 +115,7 @@
 | 8 | Фотоаппарат — значок без подложки | `DrawScreen` | опровергнуто основателем | «не в единой системе дизайна» | 3.5 |
 | 9 | «Готово» — `Button sm` | `DrawScreen` | опровергнуто основателем | «другого размера» | 3.5 |
 
-## 7. Ревью design-reviewer
+## 7. Ревью design-reviewer (версия 1)
 Ревьюер видел «было» (`before/`) и «стало». Что сделано:
 - **Блокирует 1** (переключатели зелёные) — исправлено: «вкл» = `acc` (А5).
 - **Блокирует 2** (счётчики сжаты) — общий `Stepper` 36/56/36, «−» тусклый на нуле.
